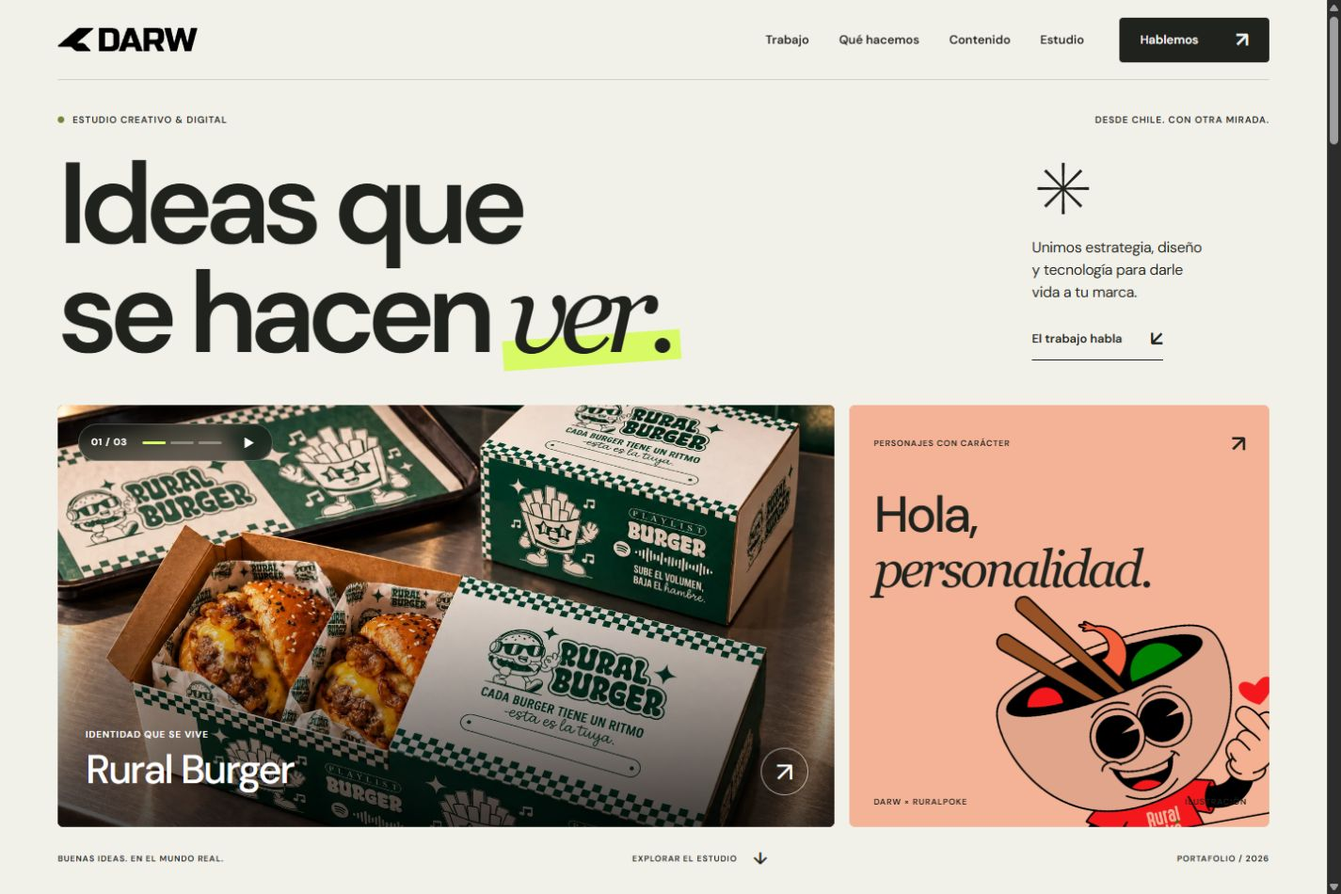
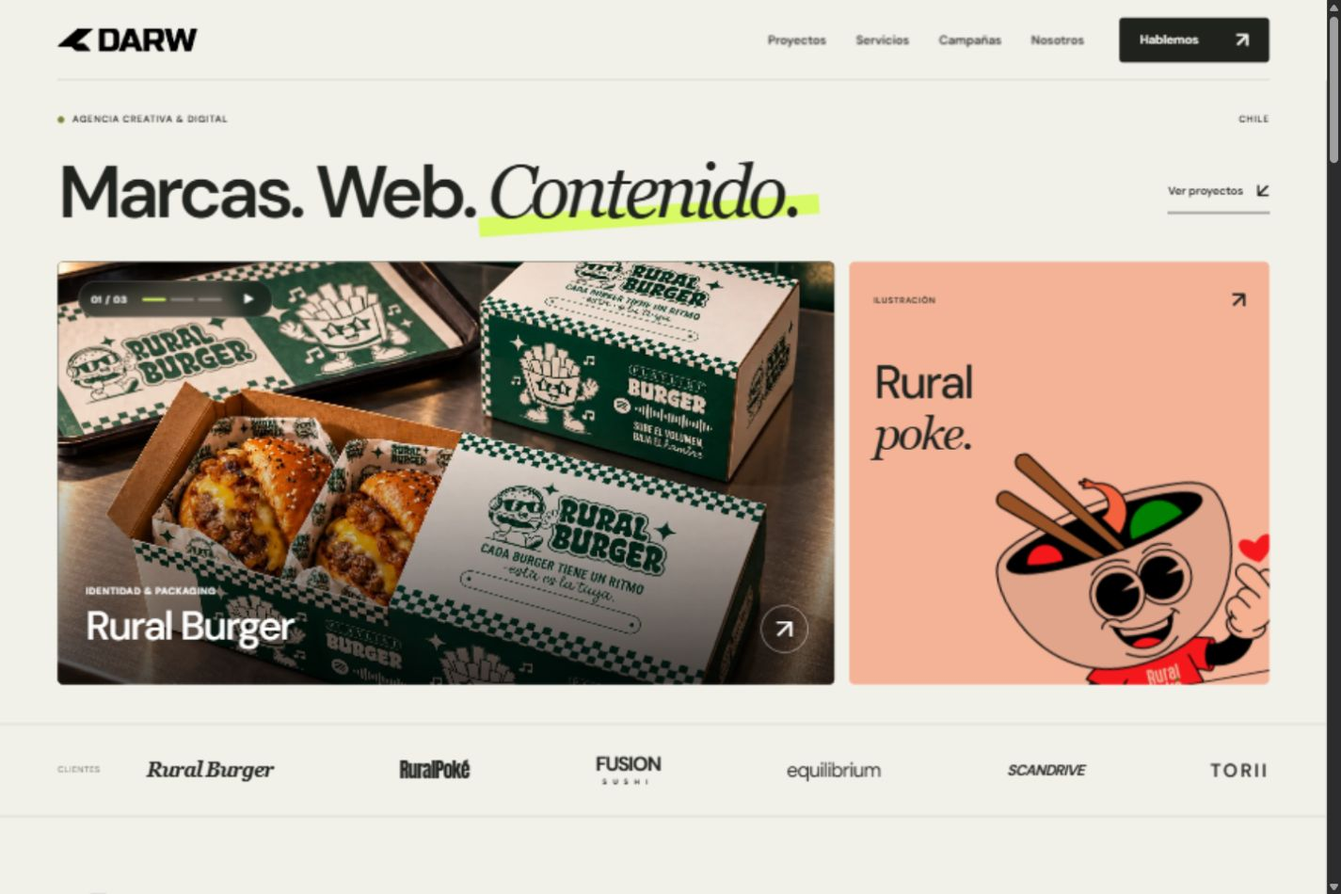
Simplify Darw copy and prioritize portfolio imagery

diff --git a/components/darw/DarwExperience.tsx b/components/darw/DarwExperience.tsx
@@ -6,7 +6,7 @@ import s from "@/app/principal-2/darw.module.css";
 
 const StudioContext = createContext<{ openProject: (id: string, image?: number) => void; modalOpen: boolean }>({ openProject: () => {}, modalOpen: false });
 const pad = (n: number) => String(n).padStart(2, "0");
-const navItems = [["trabajo", "Trabajo"], ["servicios", "Qué hacemos"], ["contenido-marcas", "Contenido"], ["estudio", "Estudio"]] as const;
+const navItems = [["trabajo", "Proyectos"], ["servicios", "Servicios"], ["contenido-marcas", "Campañas"], ["estudio", "Nosotros"]] as const;
 
 export function DarwProvider({ children }: { children: ReactNode }) {
   const [selected, setSelected] = useState<{ project: DarwProject; image: number } | null>(null);
@@ -40,9 +40,9 @@ export function DarwProvider({ children }: { children: ReactNode }) {
       if (event.key === "ArrowLeft") { event.preventDefault(); move(-1); }
     }}>
       {selected && <div className={s.dialogPanel}>
-        <div className={s.dialogTop}><span>DARW / ARCHIVO DE PROYECTOS</span><button type="button" onClick={close} aria-label="Cerrar proyecto" autoFocus>Cerrar <span aria-hidden="true">×</span></button></div>
+        <div className={s.dialogTop}><span>DARW / PROYECTOS</span><button type="button" onClick={close} aria-label="Cerrar proyecto" autoFocus>Cerrar <span aria-hidden="true">×</span></button></div>
         <div className={s.dialogGrid}><div className={s.dialogMedia}><img key={selected.project.images[selected.image].src} src={selected.project.images[selected.image].src} alt={selected.project.images[selected.image].alt} width="1400" height="1100" /><div className={s.imageControls}><button type="button" aria-label="Imagen anterior" disabled={selected.project.images.length < 2} onClick={() => move(-1)}>←</button><span aria-live="polite">{pad(selected.image + 1)} / {pad(selected.project.images.length)}</span><button type="button" aria-label="Imagen siguiente" disabled={selected.project.images.length < 2} onClick={() => move(1)}>→</button></div></div>
-          <div className={s.dialogInfo}><span className={s.kicker}>{selected.project.scope}</span><h2 id="project-title">{selected.project.name}</h2><p className={s.dialogLine}>{selected.project.line}</p><p>{selected.project.description}</p><span className={s.imageLabel} aria-live="polite">{selected.project.images[selected.image].label}</span><div className={s.thumbnails} aria-label="Imágenes del proyecto">{selected.project.images.map((img, i) => <button type="button" key={img.src} aria-label={`Ver imagen ${i + 1}: ${img.label}`} aria-pressed={selected.image === i} onClick={() => setSelected({ ...selected, image: i })}><img src={img.src} alt="" width="100" height="100" loading="lazy" /></button>)}</div><a className={s.textLink} href={selected.project.url} target="_blank" rel="noopener noreferrer">Ver caso en darw.cl <span aria-hidden="true">↗</span></a><small className={s.dialogNote}>Archivo del proyecto. Las promociones y condiciones que aparecen en las piezas son históricas.</small></div>
+          <div className={s.dialogInfo}><span className={s.kicker}>{selected.project.scope}</span><h2 id="project-title">{selected.project.name}</h2><p>{selected.project.description}</p><span className={s.imageLabel} aria-live="polite">{selected.project.images[selected.image].label}</span><div className={s.thumbnails} aria-label="Imágenes del proyecto">{selected.project.images.map((img, i) => <button type="button" key={img.src} aria-label={`Ver imagen ${i + 1}: ${img.label}`} aria-pressed={selected.image === i} onClick={() => setSelected({ ...selected, image: i })}><img src={img.src} alt="" width="100" height="100" loading="lazy" /></button>)}</div><a className={s.textLink} href={selected.project.url} target="_blank" rel="noopener noreferrer">Ver caso completo <span aria-hidden="true">↗</span></a><small className={s.dialogNote}>Archivo del proyecto · Promociones históricas.</small></div>
         </div>
       </div>}
     </dialog>
@@ -79,9 +79,9 @@ export function DarwHeader() {
 }
 
 const heroSlides = [
-  { id: "rural-burger", image: "burger-packaging", title: "Rural Burger", subtitle: "IDENTIDAD QUE SE VIVE", alt: "Packaging de Rural Burger aplicado a cajas y bolsas" },
-  { id: "scandrive", image: "scandrive-web", title: "Scandrive", subtitle: "DISEÑO QUE CONECTA", alt: "Diseño digital para Scandrive" },
-  { id: "rural-burger", image: "burger-box", title: "Del diseño a tus manos.", subtitle: "PACKAGING CON PERSONALIDAD", alt: "Caja de hamburguesa y papas de Rural Burger", imageIndex: 2 },
+  { id: "rural-burger", image: "burger-packaging", title: "Rural Burger", subtitle: "IDENTIDAD & PACKAGING", alt: "Packaging de Rural Burger aplicado a cajas y bolsas" },
+  { id: "scandrive", image: "scandrive-web", title: "Scandrive", subtitle: "DISEÑO WEB", alt: "Diseño digital para Scandrive" },
+  { id: "rural-burger", image: "burger-box", title: "Rural Burger", subtitle: "PACKAGING", alt: "Caja de hamburguesa y papas de Rural Burger", imageIndex: 2 },
 ];
 export function HeroShowcase() {
   const { openProject, modalOpen } = useContext(StudioContext);
@@ -115,7 +115,7 @@ export function HeroShowcase() {
       {heroSlides.map((slide, index) => <button key={index} type="button" className={`${s.featureSlide} ${index === active ? s.slideActive : ""}`} aria-label={`Explorar ${slide.title}`} aria-hidden={index !== active} tabIndex={index === active ? 0 : -1} inert={index !== active} onClick={() => openProject(slide.id, slide.imageIndex ?? 0)}><img src={asset(slide.image)} alt={slide.alt} width="1600" height="1000" loading={index === 0 ? "eager" : "lazy"} fetchPriority={index === 0 ? "high" : "auto"} /><span className={s.featureShade} /><span className={s.featureLabel}><small>{slide.subtitle}</small><strong>{slide.title}</strong></span><span className={s.openCircle} aria-hidden="true">↗</span></button>)}
       <div className={s.slideControls}><span>{pad(active + 1)} / 03</span><div>{heroSlides.map((slide, i) => <button type="button" key={i} aria-label={`Mostrar destacado ${i + 1}: ${slide.title}`} aria-pressed={i === active} onClick={() => selectSlide(i)} />)}</div><button type="button" className={s.pauseButton} aria-label={paused ? "Reanudar destacados" : "Pausar destacados"} aria-pressed={paused} onClick={() => setPaused(value => !value)}>{paused ? "▶" : "Ⅱ"}</button></div>
     </div>
-    <button className={s.characterCard} type="button" onClick={() => openProject("ruralpoke")}><span className={s.cardTopline}>PERSONAJES CON CARÁCTER <span aria-hidden="true">↗</span></span><img src={asset("poke-character")} alt="Personaje de Ruralpoke" width="700" height="800" /><span className={s.characterName}>Hola,<br /><em>personalidad.</em></span><span className={s.cardBottomline}>DARW × RURALPOKE <span>ILUSTRACIÓN</span></span></button>
+    <button className={s.characterCard} type="button" onClick={() => openProject("ruralpoke")}><span className={s.cardTopline}>ILUSTRACIÓN <span aria-hidden="true">↗</span></span><img src={asset("poke-character")} alt="Personaje de Ruralpoke" width="700" height="800" /><span className={s.characterName}>Rural<em>poke.</em></span></button>
   </div>;
 }
 
@@ -137,7 +137,7 @@ export function ProjectArchive() {
         </button>
       </article>)}
     </div>
-    <div className={s.archiveFooter}><span>{pad(shown.length)} / {pad(filtered.length)} PROYECTOS</span>{filtered.length > 6 ? <button type="button" className={s.outlineButton} aria-expanded={showAll} onClick={() => setShowAll(value => !value)}>{showAll ? "Mostrar selección" : "Ver todos los proyectos"}<span aria-hidden="true">{showAll ? "−" : "+"}</span></button> : <a href="https://darw.cl/portfolio" target="_blank" rel="noopener noreferrer" className={s.textLink}>Explorar el archivo de Darw ↗</a>}<span>MUCHO MÁS QUE UNA BUENA IMAGEN.</span></div>
+    <div className={s.archiveFooter}><span>{pad(shown.length)} / {pad(filtered.length)} PROYECTOS</span>{filtered.length > 6 ? <button type="button" className={s.outlineButton} aria-expanded={showAll} onClick={() => setShowAll(value => !value)}>{showAll ? "Ver menos" : "Ver todos"}<span aria-hidden="true">{showAll ? "−" : "+"}</span></button> : <a href="https://darw.cl/portfolio" target="_blank" rel="noopener noreferrer" className={s.textLink}>Ver portafolio ↗</a>}</div>
   </>;
 }
 
@@ -145,7 +145,7 @@ export function ServiceExplorer() {
   const [active, setActive] = useState(0);
   const { openProject } = useContext(StudioContext);
   const selected = darwServices[active];
-  return <div className={s.serviceExplorer}><div className={s.serviceList}>{darwServices.map((service, i) => <div className={`${s.serviceRow} ${active === i ? s.serviceActive : ""}`} key={service.name}><h3><button type="button" id={`service-trigger-${i}`} aria-expanded={i === active} aria-controls={`service-detail-${i}`} onClick={() => setActive(i)}><span>{pad(i + 1)}</span>{service.name}<b aria-hidden="true">{i === active ? "−" : "+"}</b></button></h3><div className={s.serviceDetail} id={`service-detail-${i}`} role="region" aria-labelledby={`service-trigger-${i}`} hidden={active !== i}><p>{service.detail}</p><div>{service.tags.map(tag => <span key={tag}>{tag}</span>)}</div></div></div>)}</div><button className={`${s.serviceVisual} ${active === 2 ? s.servicePoster : ""}`} type="button" onClick={() => openProject(selected.project, active === 2 ? 1 : active === 3 ? 2 : active === 0 ? 1 : 0)} aria-label={`Ver ejemplo de ${selected.name}`}><span className={s.serviceVisualTop}>ASÍ SE VE EN LA PRÁCTICA <span aria-hidden="true">↗</span></span><img key={selected.image} src={asset(selected.image)} alt={`Trabajo Darw de ${selected.name}`} width="1000" height="900" loading="lazy" /><span className={s.serviceVisualBottom}>{selected.note}<small>EXPLORAR PROYECTO ↗</small></span></button></div>;
+  return <div className={s.serviceExplorer}><div className={s.serviceList}>{darwServices.map((service, i) => <div className={`${s.serviceRow} ${active === i ? s.serviceActive : ""}`} key={service.name}><h3><button type="button" id={`service-trigger-${i}`} aria-expanded={i === active} aria-controls={`service-detail-${i}`} onClick={() => setActive(i)}><span>{pad(i + 1)}</span>{service.name}<b aria-hidden="true">{i === active ? "−" : "+"}</b></button></h3><div className={s.serviceDetail} id={`service-detail-${i}`} role="region" aria-labelledby={`service-trigger-${i}`} hidden={active !== i}><div>{service.tags.map(tag => <span key={tag}>{tag}</span>)}</div></div></div>)}</div><button className={`${s.serviceVisual} ${active === 2 ? s.servicePoster : ""}`} type="button" onClick={() => openProject(selected.project, active === 2 ? 1 : active === 3 ? 2 : active === 0 ? 1 : 0)} aria-label={`Ver ejemplo de ${selected.name}`}><span className={s.serviceVisualTop}>PROYECTO <span aria-hidden="true">↗</span></span><img key={selected.image} src={asset(selected.image)} alt={`Trabajo Darw de ${selected.name}`} width="1000" height="900" loading="lazy" /><span className={s.serviceVisualBottom}>{selected.brand}</span></button></div>;
 }
 
 const contentPieces = [
@@ -166,7 +166,7 @@ export function ContentStrip() {
     const el = rail.current;
     if (el) el.scrollBy({ left: direction * el.clientWidth * .68, behavior: matchMedia("(prefers-reduced-motion: reduce)").matches ? "instant" : "smooth" });
   };
-  return <><div className={`${s.railToolbar} ${s.wrap}`}><span>UN VISTAZO AL DÍA A DÍA <span aria-hidden="true">→</span></span><div><button type="button" aria-label="Contenido anterior" disabled={position <= 1} onClick={() => scroll(-1)}>←</button><button type="button" aria-label="Contenido siguiente" disabled={end} onClick={() => scroll(1)}>→</button></div></div><div className={s.contentRail} ref={rail} role="region" aria-label="Galería de campañas, desplázate horizontalmente" tabIndex={0} onScroll={() => { const el = rail.current; if (el) { setPosition(el.scrollLeft); setEnd(el.scrollLeft >= el.scrollWidth - el.clientWidth - 2); } }} onKeyDown={event => { if (event.target !== event.currentTarget) return; if (event.key === "ArrowRight") { event.preventDefault(); scroll(1); } if (event.key === "ArrowLeft") { event.preventDefault(); scroll(-1); } }}>
+  return <><div className={`${s.railToolbar} ${s.wrap}`}><span> <span aria-hidden="true">→</span></span><div><button type="button" aria-label="Contenido anterior" disabled={position <= 1} onClick={() => scroll(-1)}>←</button><button type="button" aria-label="Contenido siguiente" disabled={end} onClick={() => scroll(1)}>→</button></div></div><div className={s.contentRail} ref={rail} role="region" aria-label="Galería de campañas, desplázate horizontalmente" tabIndex={0} onScroll={() => { const el = rail.current; if (el) { setPosition(el.scrollLeft); setEnd(el.scrollLeft >= el.scrollWidth - el.clientWidth - 2); } }} onKeyDown={event => { if (event.target !== event.currentTarget) return; if (event.key === "ArrowRight") { event.preventDefault(); scroll(1); } if (event.key === "ArrowLeft") { event.preventDefault(); scroll(-1); } }}>
       {contentPieces.map((piece, i) => <button className={`${s.contentPiece} ${piece.type === "Personaje" ? s.characterPiece : ""}`} type="button" key={piece.image} onClick={() => openProject(piece.project, piece.index)} aria-label={`Ampliar ${piece.type} de ${piece.brand}, pieza ${i + 1}`}><div><img src={asset(piece.image)} alt={`${piece.type} de ${piece.brand}`} width="700" height="875" loading="lazy" /><span aria-hidden="true">↗</span></div><span className={s.pieceCaption}><strong>{piece.brand}</strong><small>{piece.type} / {pad(i + 1)}</small></span></button>)}
     </div></>;
 }
@@ -177,5 +177,5 @@ export function ContactStudio() {
   const message = `Hola Darw, vi su portafolio y me gustaría conversar sobre ${interests.length ? interests.join(", ").toLowerCase() : "un proyecto"}.${context.trim() ? `\n\n${context.trim()}` : ""}`;
   const whatsapp = `https://wa.me/${darwContact.phone}?text=${encodeURIComponent(message)}`;
   const email = `mailto:${darwContact.email}?subject=${encodeURIComponent("Un nuevo proyecto con Darw")}&body=${encodeURIComponent(message)}`;
-  return <section className={s.contact} id="hablemos" aria-labelledby="contact-title"><div className={s.wrap}><span className={s.kicker}>05 / TU PRÓXIMA IDEA</span><div className={s.contactGrid}><div><h2 id="contact-title">¿Hacemos<br /><span className={s.serif}>algo bueno?</span></h2><p>Cuéntanos qué tienes en mente.<br />Le damos forma juntos.</p><a className={s.contactEmail} href={`mailto:${darwContact.email}`}>{darwContact.email} ↗</a></div><div className={s.contactBrief}><fieldset><legend>ESTOY PENSANDO EN…</legend><div className={s.interests}>{["Una marca", "Una web", "Un ecommerce", "Contenido", "Packaging", "Lo conversamos"].map(item => <button type="button" key={item} aria-pressed={interests.includes(item)} onClick={() => setInterests(items => items.includes(item) ? items.filter(value => value !== item) : [...items, item])}>{item}<span aria-hidden="true">{interests.includes(item) ? "✓" : "+"}</span></button>)}</div></fieldset><label htmlFor="project-context">TU IDEA EN UNA LÍNEA <span>(OPCIONAL)</span></label><textarea id="project-context" value={context} onChange={event => setContext(event.target.value)} maxLength={1000} rows={2} placeholder="Mi proyecto necesita…" /><div className={s.contactActions}><a className={s.darkButton} href={whatsapp} target="_blank" rel="noopener noreferrer">Conversemos por WhatsApp <span aria-hidden="true">↗</span></a><a href={email} className={s.emailAlternative}>Prefiero escribir un email ↗</a></div><small>Preparamos tu mensaje. Tú decides cuándo enviarlo.</small></div></div></div></section>;
+  return <section className={s.contact} id="hablemos" aria-labelledby="contact-title"><div className={s.wrap}><span className={s.kicker}>05 / CONTACTO</span><div className={s.contactGrid}><div><h2 id="contact-title"><span className={s.serif}>Hablemos.</span></h2><a className={s.contactEmail} href={`mailto:${darwContact.email}`}>{darwContact.email} ↗</a></div><div className={s.contactBrief}><fieldset><legend>¿QUÉ NECESITAS?</legend><div className={s.interests}>{["Identidad", "Web", "Ecommerce", "Contenido", "Packaging"].map(item => <button type="button" key={item} aria-pressed={interests.includes(item)} onClick={() => setInterests(items => items.includes(item) ? items.filter(value => value !== item) : [...items, item])}>{item}<span aria-hidden="true">{interests.includes(item) ? "✓" : "+"}</span></button>)}</div></fieldset><label htmlFor="project-context">TU PROYECTO <span>(OPCIONAL)</span></label><textarea id="project-context" value={context} onChange={event => setContext(event.target.value)} maxLength={1000} rows={2} placeholder="Mi proyecto necesita…" /><div className={s.contactActions}><a className={s.darkButton} href={whatsapp} target="_blank" rel="noopener noreferrer">Abrir WhatsApp <span aria-hidden="true">↗</span></a><a href={email} className={s.emailAlternative}>Enviar email ↗</a></div></div></div></div></section>;
 }

diff --git a/data/darw.ts b/data/darw.ts
@@ -1,56 +1,56 @@
 export type DarwCategory = "Todo" | "Identidad" | "Web & ecommerce" | "Contenido" | "Packaging";
 export type DarwImage = { src: string; alt: string; label: string };
-export type DarwProject = { id: string; name: string; line: string; category: DarwCategory[]; scope: string; color: string; cover: string; description: string; url: string; images: DarwImage[] };
+export type DarwProject = { id: string; name: string; category: DarwCategory[]; scope: string; color: string; cover: string; description: string; url: string; images: DarwImage[] };
 export const asset = (name: string) => `/images/darw/${name}.webp`;
 const picture = (name: string, alt: string, label: string): DarwImage => ({ src: asset(name), alt, label });
 
 export const darwProjects: DarwProject[] = [
   {
-    id: "rural-burger", name: "Rural Burger", line: "Una marca con mucho ritmo.",
+    id: "rural-burger", name: "Rural Burger",
     category: ["Identidad", "Packaging", "Contenido"], scope: "Identidad · Packaging · Lanzamiento", color: "#d4dfb8", cover: asset("burger-packaging"),
     description: "Un universo gastronómico que conecta identidad, personajes, envases y contenido. La misma personalidad, desde la primera publicación hasta la última mordida.",
     url: "https://darw.cl/gastronomia/rural-burger",
     images: [picture("burger-packaging", "Caja y aplicaciones de packaging Rural Burger", "Packaging / Aplicación de marca"), picture("burger-brand", "Patrón con logotipo y personajes Rural Burger", "Identidad / Sistema gráfico"), picture("burger-box", "Caja de hamburguesa y papas Rural Burger", "Packaging / Caja"), picture("burger-bag", "Bolsa de papel de Rural Burger", "Packaging / Bolsa"), picture("burger-launch-1", "Primera pieza de lanzamiento Rural Burger", "Contenido / Lanzamiento"), picture("burger-launch-2", "Segunda pieza de lanzamiento Rural Burger", "Contenido / Lanzamiento")],
   },
   {
-    id: "ruralpoke", name: "Ruralpoke", line: "Personalidad que abre el apetito.",
-    category: ["Contenido", "Identidad"], scope: "Dirección creativa · Campañas · Personaje", color: "#f3b294", cover: asset("poke-character"),
+    id: "ruralpoke", name: "Ruralpoke",
+    category: ["Contenido", "Identidad"], scope: "Campañas · Ilustración", color: "#f3b294", cover: asset("poke-character"),
     description: "Una voz propia para el día a día: campañas, historias y un personaje que acompaña a la marca en todos sus formatos.",
     url: "https://darw.cl/gastronomia/ruralpoke",
     images: [picture("poke-character", "Personaje ilustrado de Ruralpoke", "Ilustración / Personaje"), picture("poke-may-1", "Campaña Órdenes del comandante de Ruralpoke", "Campaña / 21 de mayo"), picture("poke-may-2", "Segunda pieza de campaña 21 de mayo", "Campaña / Continuación"), picture("poke-birthday", "Campaña de cumpleaños Ruralpoke", "Campaña / Cumpleaños"), picture("poke-campaign", "Campaña Ruralpoke llega donde sea", "Campaña / Alcance"), picture("poke-story", "Historia de apertura de Ruralpoke", "Contenido / Stories"), picture("poke-cyber", "Pieza Cyber Poke", "Campaña / Cyber")],
   },
   {
-    id: "scandrive", name: "Scandrive", line: "Lo técnico también puede ser claro.",
-    category: ["Web & ecommerce"], scope: "Diseño web · Experiencia digital", color: "#d5dde0", cover: asset("scandrive-web"),
+    id: "scandrive", name: "Scandrive",
+    category: ["Web & ecommerce"], scope: "Diseño web", color: "#d5dde0", cover: asset("scandrive-web"),
     description: "Una experiencia digital para el mundo automotriz. Diseño de interfaz y presentación de servicios conectados en un mismo recorrido.",
     url: "https://darw.cl/portfolio?caso=scandrive#archivo", images: [picture("scandrive-web", "Presentación de la experiencia digital de Scandrive", "Web / Experiencia digital")],
   },
   {
-    id: "fusion-sushi", name: "Fusion Sushi", line: "Todo un mundo alrededor del sushi.",
+    id: "fusion-sushi", name: "Fusion Sushi",
     category: ["Identidad", "Contenido"], scope: "Identidad · Dirección de arte", color: "#ede3c7", cover: asset("fusion-logo"),
     description: "Un sistema visual para una marca gastronómica de Quillota. Identidad, promociones y comunicación cotidiana con un lenguaje compartido.",
     url: "https://darw.cl/gastronomia/fusion-sushi-quillota", images: [picture("fusion-logo", "Identidad visual de Fusion Sushi", "Branding / Identidad"), picture("fusion-colors", "Paleta cromática de Fusion Sushi", "Branding / Color"), picture("fusion-application", "Aplicación del sistema visual de Fusion Sushi", "Branding / Aplicaciones"), picture("fusion-story", "Historia de delivery de Fusion Sushi", "Contenido / Stories")],
   },
   {
-    id: "equilibrium", name: "Equilibrium", line: "Un recorrido más simple hacia el cuidado.",
+    id: "equilibrium", name: "Equilibrium",
     category: ["Web & ecommerce"], scope: "Diseño web · Salud", color: "#d1e4dd", cover: asset("equilibrium-web"),
     description: "Una web para el centro de salud en Chonchi, Chiloé. Servicios y especialidades ordenados para facilitar la búsqueda de información.",
     url: "https://darw.cl/portfolio/equilibrium-chonchi", images: [picture("equilibrium-web", "Página web de Equilibrium Centro de Salud Integral", "Web / Página principal"), picture("equilibrium-logo", "Logotipo Equilibrium", "Marca / Identidad")],
   },
   {
-    id: "sushi-torii", name: "Sushi Torii", line: "Del antojo al pedido.",
-    category: ["Web & ecommerce"], scope: "Ecommerce · Experiencia de compra", color: "#f2c4b5", cover: asset("torii-web"),
+    id: "sushi-torii", name: "Sushi Torii",
+    category: ["Web & ecommerce"], scope: "Ecommerce", color: "#f2c4b5", cover: asset("torii-web"),
     description: "La experiencia de Sushi Torii llevada al entorno digital. Un catálogo que acerca el producto a la decisión de compra.",
     url: "https://darw.cl/portfolio/torii-sushi-ecommerce-chiloe", images: [picture("torii-web", "Ficha de producto del ecommerce de Sushi Torii", "Ecommerce / Producto")],
   },
   {
-    id: "monte-verde", name: "Colegio Monte Verde", line: "Una comunidad, muchas formas de conectar.",
+    id: "monte-verde", name: "Colegio Monte Verde",
     category: ["Web & ecommerce"], scope: "Diseño web · Educación", color: "#e5dfc7", cover: asset("monteverde-web"),
     description: "El colegio de Castro, Chiloé, en una experiencia digital que reúne vida escolar, información institucional y admisión.",
     url: "https://darw.cl/portfolio?caso=colegio-monte-verde#archivo", images: [picture("monteverde-web", "Sitio web de Colegio Monte Verde", "Web / Comunidad educativa")],
   },
   {
-    id: "fuego-de-patio", name: "Fuego de Patio", line: "Una experiencia que empieza antes de la mesa.",
+    id: "fuego-de-patio", name: "Fuego de Patio",
     category: ["Web & ecommerce"], scope: "Diseño web · Gastronomía", color: "#e8c9a8", cover: asset("fuego-web"),
     description: "Una presencia digital para mostrar la propuesta gastronómica y los eventos de Fuego de Patio.",
     url: "https://darw.cl/portfolio?caso=fuego-de-patio#archivo", images: [picture("fuego-web", "Sitio web de Fuego de Patio", "Web / Gastronomía y eventos")],
@@ -59,8 +59,8 @@ export const darwProjects: DarwProject[] = [
 export const darwCategories: DarwCategory[] = ["Todo", "Identidad", "Web & ecommerce", "Contenido", "Packaging"];
 export const darwContact = { email: "darwagency@gmail.com", phone: "56926341222", instagram: "https://www.instagram.com/darw.cl/" };
 export const darwServices = [
-  { name: "Estrategia & marca", note: "Una dirección propia.", detail: "Estrategia, identidad visual, dirección de arte y sistemas gráficos que acompañan a tu marca cuando crece.", tags: ["Estrategia", "Branding", "Dirección de arte"], project: "rural-burger", image: "burger-brand" },
-  { name: "Web & ecommerce", note: "Experiencias que funcionan.", detail: "Diseñamos y desarrollamos recorridos digitales para presentar, conectar y vender con claridad.", tags: ["UX / UI", "Desarrollo web", "Ecommerce"], project: "scandrive", image: "scandrive-web" },
-  { name: "Contenido & campañas", note: "Ideas que salen al mundo.", detail: "Un lenguaje visual que se adapta a cada formato. Campañas, redes sociales y personajes con personalidad.", tags: ["Social media", "Campañas", "Ilustración"], project: "ruralpoke", image: "poke-may-1" },
-  { name: "Packaging & gráfica", note: "La marca también se toca.", detail: "Llevamos la identidad al mundo físico: envases, cartas y aplicaciones que hacen reconocible cada encuentro.", tags: ["Packaging", "Diseño editorial", "Gráfica"], project: "rural-burger", image: "burger-box" },
+  { name: "Estrategia & marca", brand: "Rural Burger", tags: ["Estrategia", "Branding", "Dirección de arte"], project: "rural-burger", image: "burger-brand" },
+  { name: "Web & ecommerce", brand: "Scandrive", tags: ["UX / UI", "Desarrollo web", "Ecommerce"], project: "scandrive", image: "scandrive-web" },
+  { name: "Contenido & campañas", brand: "Ruralpoke", tags: ["Social media", "Campañas", "Ilustración"], project: "ruralpoke", image: "poke-may-1" },
+  { name: "Packaging & gráfica", brand: "Rural Burger", tags: ["Packaging", "Diseño editorial", "Gráfica"], project: "rural-burger", image: "burger-box" },
 ];

diff --git a/app/principal-2/page.tsx b/app/principal-2/page.tsx
@@ -4,10 +4,10 @@ import { darwContact } from "@/data/darw";
 import s from "./darw.module.css";
 
 export const metadata: Metadata = {
-  title: { absolute: "Darw — Ideas que se hacen ver" },
+  title: { absolute: "Darw — Marcas, web y contenido" },
   description: "Estudio creativo y digital en Chile. Explora nuestros proyectos de identidad, web, ecommerce, packaging y campañas.",
   applicationName: "Darw",
-  openGraph: { title: "Darw — Ideas que se hacen ver", description: "Estrategia, diseño y experiencias digitales. Trabajo seleccionado de Darw.", siteName: "Darw", locale: "es_CL", type: "website" },
+  openGraph: { title: "Darw — Marcas, web y contenido", description: "Proyectos de identidad, web, packaging y campañas de Darw.", siteName: "Darw", locale: "es_CL", type: "website" },
 };
 
 export default function Principal2() {
@@ -15,18 +15,17 @@ export default function Principal2() {
     <DarwHeader />
     <main id="contenido">
       <section className={`${s.hero} ${s.wrap}`} aria-labelledby="darw-title">
-        <div className={s.eyebrow}><span><i className={s.statusDot} /> ESTUDIO CREATIVO & DIGITAL</span><span>DESDE CHILE. CON OTRA MIRADA.</span></div>
-        <div className={s.heroTitle}><h1 id="darw-title">Ideas que<br />se hacen <em>ver.</em></h1><div className={s.heroAside}><span className={s.asterisk} aria-hidden="true">✳</span><p>Unimos estrategia, diseño<br />y tecnología para darle<br />vida a tu marca.</p><a href="#trabajo" className={s.textLink}>El trabajo habla <span aria-hidden="true">↙</span></a></div></div>
+        <div className={s.eyebrow}><span><i className={s.statusDot} /> AGENCIA CREATIVA & DIGITAL</span><span>CHILE</span></div>
+        <div className={s.heroTitle}><h1 id="darw-title"><span>Marcas. Web.</span> <em>Contenido.</em></h1><a href="#trabajo" className={s.textLink}>Ver proyectos <span aria-hidden="true">↙</span></a></div>
         <HeroShowcase />
-        <div className={s.heroFoot}><span>BUENAS IDEAS. EN EL MUNDO REAL.</span><a href="#trabajo">EXPLORAR EL ESTUDIO <span aria-hidden="true">↓</span></a><span>PORTAFOLIO / 2026</span></div>
       </section>
-      <section className={s.brandStrip} aria-label="Marcas de nuestro portafolio"><div className={s.wrap}><span>EN BUENA<br />COMPAÑÍA</span><div className={s.brandNames}><b>Rural Burger</b><b>RuralPoké</b><b>FUSION<span>SUSHI</span></b><b>equilibrium</b><b>SCANDRIVE</b><b>TORII</b></div></div></section>
-      <section className={`${s.work} ${s.wrap}`} id="trabajo" aria-labelledby="work-title"><div className={s.sectionHead}><div><span className={s.kicker}>01 / TRABAJO SELECCIONADO</span><h2 id="work-title">Menos promesas.<br /><span className={s.serif}>Más proyectos.</span></h2></div><p>Identidades, experiencias y piezas<br />que cuentan quién está detrás.<br /><span>Entra, mira de cerca.</span></p></div><ProjectArchive /></section>
-      <section className={s.services} id="servicios" aria-labelledby="services-title"><div className={s.wrap}><div className={s.sectionHead}><div><span className={s.kicker}>02 / LO QUE HACEMOS</span><h2 id="services-title">De la primera idea<br />al <span className={s.serif}>último detalle.</span></h2></div><span className={s.largeArrow} aria-hidden="true">↘</span></div><ServiceExplorer /></div></section>
-      <section className={s.contentSection} id="contenido-marcas" aria-labelledby="content-title"><div className={`${s.sectionHead} ${s.wrap}`}><div><span className={s.kicker}>03 / MARCAS EN MOVIMIENTO</span><h2 id="content-title">Imposible<br /><span className={s.serif}>pasar de largo.</span></h2></div><p>Campañas, personajes y contenido.<br />Una voz propia en cada formato.</p></div><ContentStrip /><div className={`${s.archiveNote} ${s.wrap}`}><span>DEL ARCHIVO DE DARW — RURALPOKE & RURAL BURGER</span><span>Las promociones mostradas corresponden al período de cada proyecto.</span></div></section>
-      <section className={`${s.studio} ${s.wrap}`} id="estudio" aria-labelledby="studio-title"><div className={s.studioIntro}><span className={s.kicker}>04 / EL ESTUDIO</span><h2 id="studio-title">Una mirada.<br />Muchas formas<br />de <span className={s.serif}>hacer.</span></h2><p>Somos Darw. Conectamos la estrategia con lo que tu marca muestra, dice y hace. Del primer boceto a la experiencia completa.</p><a href="https://darw.cl/nosotros" className={s.textLink} target="_blank" rel="noopener noreferrer">Conoce más de Darw <span aria-hidden="true">↗</span></a></div><div className={s.studioProcess}><div className={s.studioGraphic} aria-hidden="true"><span>IDEA</span><span className={s.processStar}>✳</span><span>ACCIÓN</span><small>ESTRATEGIA + CREATIVIDAD + TECNOLOGÍA</small></div>{[{n:"01",title:"Entender antes de crear",text:"Conversamos sobre tu negocio, su contexto y lo que necesitas resolver."},{n:"02",title:"Encontrar una dirección",text:"Damos forma a una idea y definimos un lenguaje que pueda crecer contigo."},{n:"03",title:"Hacer que suceda",text:"Diseñamos, desarrollamos y llevamos la marca a sus puntos de contacto."}].map(step=><details key={step.n} className={s.processStep}><summary><span>{step.n}</span><h3>{step.title}</h3><span className={s.plus} aria-hidden="true">+</span></summary><p>{step.text}</p></details>)}</div></section>
+      <section className={s.brandStrip} aria-label="Marcas de nuestro portafolio"><div className={s.wrap}><span>CLIENTES</span><div className={s.brandNames}><b>Rural Burger</b><b>RuralPoké</b><b>FUSION<span>SUSHI</span></b><b>equilibrium</b><b>SCANDRIVE</b><b>TORII</b></div></div></section>
+      <section className={`${s.work} ${s.wrap}`} id="trabajo" aria-labelledby="work-title"><div className={s.sectionHead}><span className={s.sectionNumber} aria-hidden="true">01</span><h2 id="work-title">Proyectos<span className={s.serif}>.</span></h2></div><ProjectArchive /></section>
+      <section className={s.services} id="servicios" aria-labelledby="services-title"><div className={s.wrap}><div className={s.sectionHead}><span className={s.sectionNumber} aria-hidden="true">02</span><h2 id="services-title">Servicios<span className={s.serif}>.</span></h2><span className={s.largeArrow} aria-hidden="true">↘</span></div><ServiceExplorer /></div></section>
+      <section className={s.contentSection} id="contenido-marcas" aria-labelledby="content-title"><div className={`${s.sectionHead} ${s.wrap}`}><span className={s.sectionNumber} aria-hidden="true">03</span><h2 id="content-title">Campañas & <span className={s.serif}>redes.</span></h2></div><ContentStrip /><div className={`${s.archiveNote} ${s.wrap}`}><span>ARCHIVO DE CAMPAÑAS · PROMOCIONES HISTÓRICAS</span></div></section>
+      <section className={`${s.studio} ${s.wrap}`} id="estudio" aria-labelledby="studio-title"><div className={s.studioIntro}><span className={s.kicker}>04 / NOSOTROS</span><h2 id="studio-title">Somos <span className={s.serif}>Darw.</span></h2><p>Agencia creativa y digital en Chile.</p><a href="https://darw.cl/nosotros" className={s.textLink} target="_blank" rel="noopener noreferrer">Conócenos <span aria-hidden="true">↗</span></a></div><div className={s.studioProcess}><div className={s.studioGraphic} aria-hidden="true"><span>IDEA</span><span className={s.processStar}>✳</span><span>ACCIÓN</span></div>{[{n:"01",title:"Estrategia",text:"Definimos objetivos y una dirección para tu marca."},{n:"02",title:"Diseño",text:"Creamos la identidad y sus aplicaciones."},{n:"03",title:"Desarrollo",text:"Construimos y publicamos la experiencia digital."}].map(step=><details key={step.n} className={s.processStep}><summary><span>{step.n}</span><h3>{step.title}</h3><span className={s.plus} aria-hidden="true">+</span></summary><p>{step.text}</p></details>)}</div></section>
       <ContactStudio />
     </main>
-    <footer className={s.footer}><div className={s.wrap}><div className={s.footerTop}><a href="#darw-inicio" aria-label="Darw, volver al inicio"><img src="/images/darw/darw-logo.svg" alt="Darw" width="140" height="34" /></a><span>ESTRATEGIA. DISEÑO. MUNDO REAL.</span><a href={darwContact.instagram} target="_blank" rel="noopener noreferrer">Instagram ↗</a><a href={`mailto:${darwContact.email}`}>Email ↗</a><a href="#darw-inicio">Volver arriba ↑</a></div><div className={s.footerBottom}><span>© 2026 DARW AGENCY</span><span>HECHO CON INTENCIÓN, DESDE CHILE.</span><a href="/">Ver Uppercat ↗</a></div></div></footer>
+    <footer className={s.footer}><div className={s.wrap}><div className={s.footerTop}><a href="#darw-inicio" aria-label="Darw, volver al inicio"><img src="/images/darw/darw-logo.svg" alt="Darw" width="140" height="34" /></a><a href={darwContact.instagram} target="_blank" rel="noopener noreferrer">Instagram ↗</a><a href={`mailto:${darwContact.email}`}>Email ↗</a><a href="#darw-inicio">Volver arriba ↑</a></div><div className={s.footerBottom}><span>© 2026 DARW AGENCY · CHILE</span><a href="/">Ver Uppercat ↗</a></div></div></footer>
   </div></DarwProvider>;
 }

diff --git a/app/principal-2/darw.module.css b/app/principal-2/darw.module.css
@@ -30,3 +30,47 @@
 /* Keep intrinsic graphic sizes inside narrow grid tracks. */
 .studio>div,.contactGrid>div,.serviceExplorer>div{min-width:0}
 @media(max-width:760px){.studio,.contactGrid,.serviceExplorer{grid-template-columns:minmax(0,1fr)}.studioGraphic>span:not(.processStar){font-size:clamp(24px,8vw,37px)}.processStar{font-size:clamp(65px,22vw,110px)}}
+
+/* Short labels keep the work at the front of each section. */
+.heroTitle{align-items:center;padding-block:28px 34px;gap:24px}
+.heroTitle h1{font-size:clamp(45px,5.5vw,92px);line-height:1.04;letter-spacing:-.065em}
+.heroTitle h1>span,.heroTitle h1>em{white-space:nowrap}
+.heroTitle>.textLink{flex-shrink:0;font-size:12px;gap:14px}
+.heroTitle h1 em{letter-spacing:-.065em;width:fit-content}
+.sectionHead{justify-content:flex-start;align-items:baseline;gap:20px}
+.sectionNumber{font-size:11px;color:var(--muted);font-variant-numeric:tabular-nums}
+.services .sectionNumber{color:#b8bcae}
+.largeArrow{margin-left:auto;font-size:64px}
+.sectionHead h2{font-size:clamp(36px,3.9vw,64px)}
+.work{padding-block:72px}
+.services{padding-block:70px}
+.contentSection{padding-top:70px}
+.characterName{font-size:clamp(32px,3.5vw,58px);top:23%}
+.characterName em{display:block}
+.serviceDetail>div{margin-top:0}
+.serviceVisual>img{height:calc(100% - 108px)}
+.railToolbar{justify-content:flex-end;margin-top:-62px;margin-bottom:28px}
+.railToolbar>span{display:none}
+.studio{padding-block:70px}
+.studioIntro>p{margin-block:20px}
+.contact h2{font-size:clamp(44px,6vw,92px)}
+.footerTop>a:first-child{margin-right:auto}
+.dialogInfo h2{margin-bottom:20px}
+@media(max-width:1050px){.heroTitle{align-items:flex-end}.heroTitle h1>em{display:block}}
+@media(max-width:760px){
+  .hero{padding-top:22px;padding-bottom:14px}
+  .heroTitle{padding-block:20px 24px;display:block}
+  .heroTitle h1{font-size:clamp(46px,10.5vw,72px);line-height:1.03}
+  .heroTitle>.textLink{margin-top:12px;padding-block:5px;font-size:11px}
+  .heroTitle h1>em{display:block}
+  .characterName{top:27%;font-size:42px}
+  .sectionHead,.services .sectionHead{flex-direction:row;align-items:baseline;gap:14px;margin-bottom:25px}
+  .sectionHead h2,.services .sectionHead h2{font-size:clamp(32px,7.4vw,52px)}
+  .sectionNumber{font-size:9px}
+  .largeArrow{font-size:40px}
+  .work,.services,.studio{padding-block:48px}
+  .contentSection{padding-top:48px}
+  .railToolbar{margin-top:0;margin-bottom:15px}
+  .studio{gap:26px}
+  .contact h2{font-size:clamp(46px,10.5vw,72px)}
+}

diff --git a/docs/darw/README.md b/docs/darw/README.md
@@ -15,6 +15,7 @@ La nueva página conserva esa densidad visual y la exploración por secciones. R
 - Grilla asimétrica de proyectos que alterna proporciones 7/5 y 5/7.
 - Cada área tiene un formato propio: portada con selección, archivo filtrable, explorador de servicios, tira de campañas, proceso y contacto.
 - Movimiento orientado a explorar: transiciones de portada, respuestas al cursor, cambio de imágenes y desplazamiento horizontal nativo. Sin secuestrar el scroll de la página.
+- Revisión de contenido: títulos descriptivos (Proyectos, Servicios, Campañas & redes), portada compacta y eliminación de eslóganes y párrafos repetidos. Los servicios se explican con etiquetas y ejemplos visuales; el detalle de los proyectos aparece al abrirlos. El texto visible del contenido principal pasó de 463 a 246 palabras en la vista revisada.
 
 ## Componentes e interacción
 
